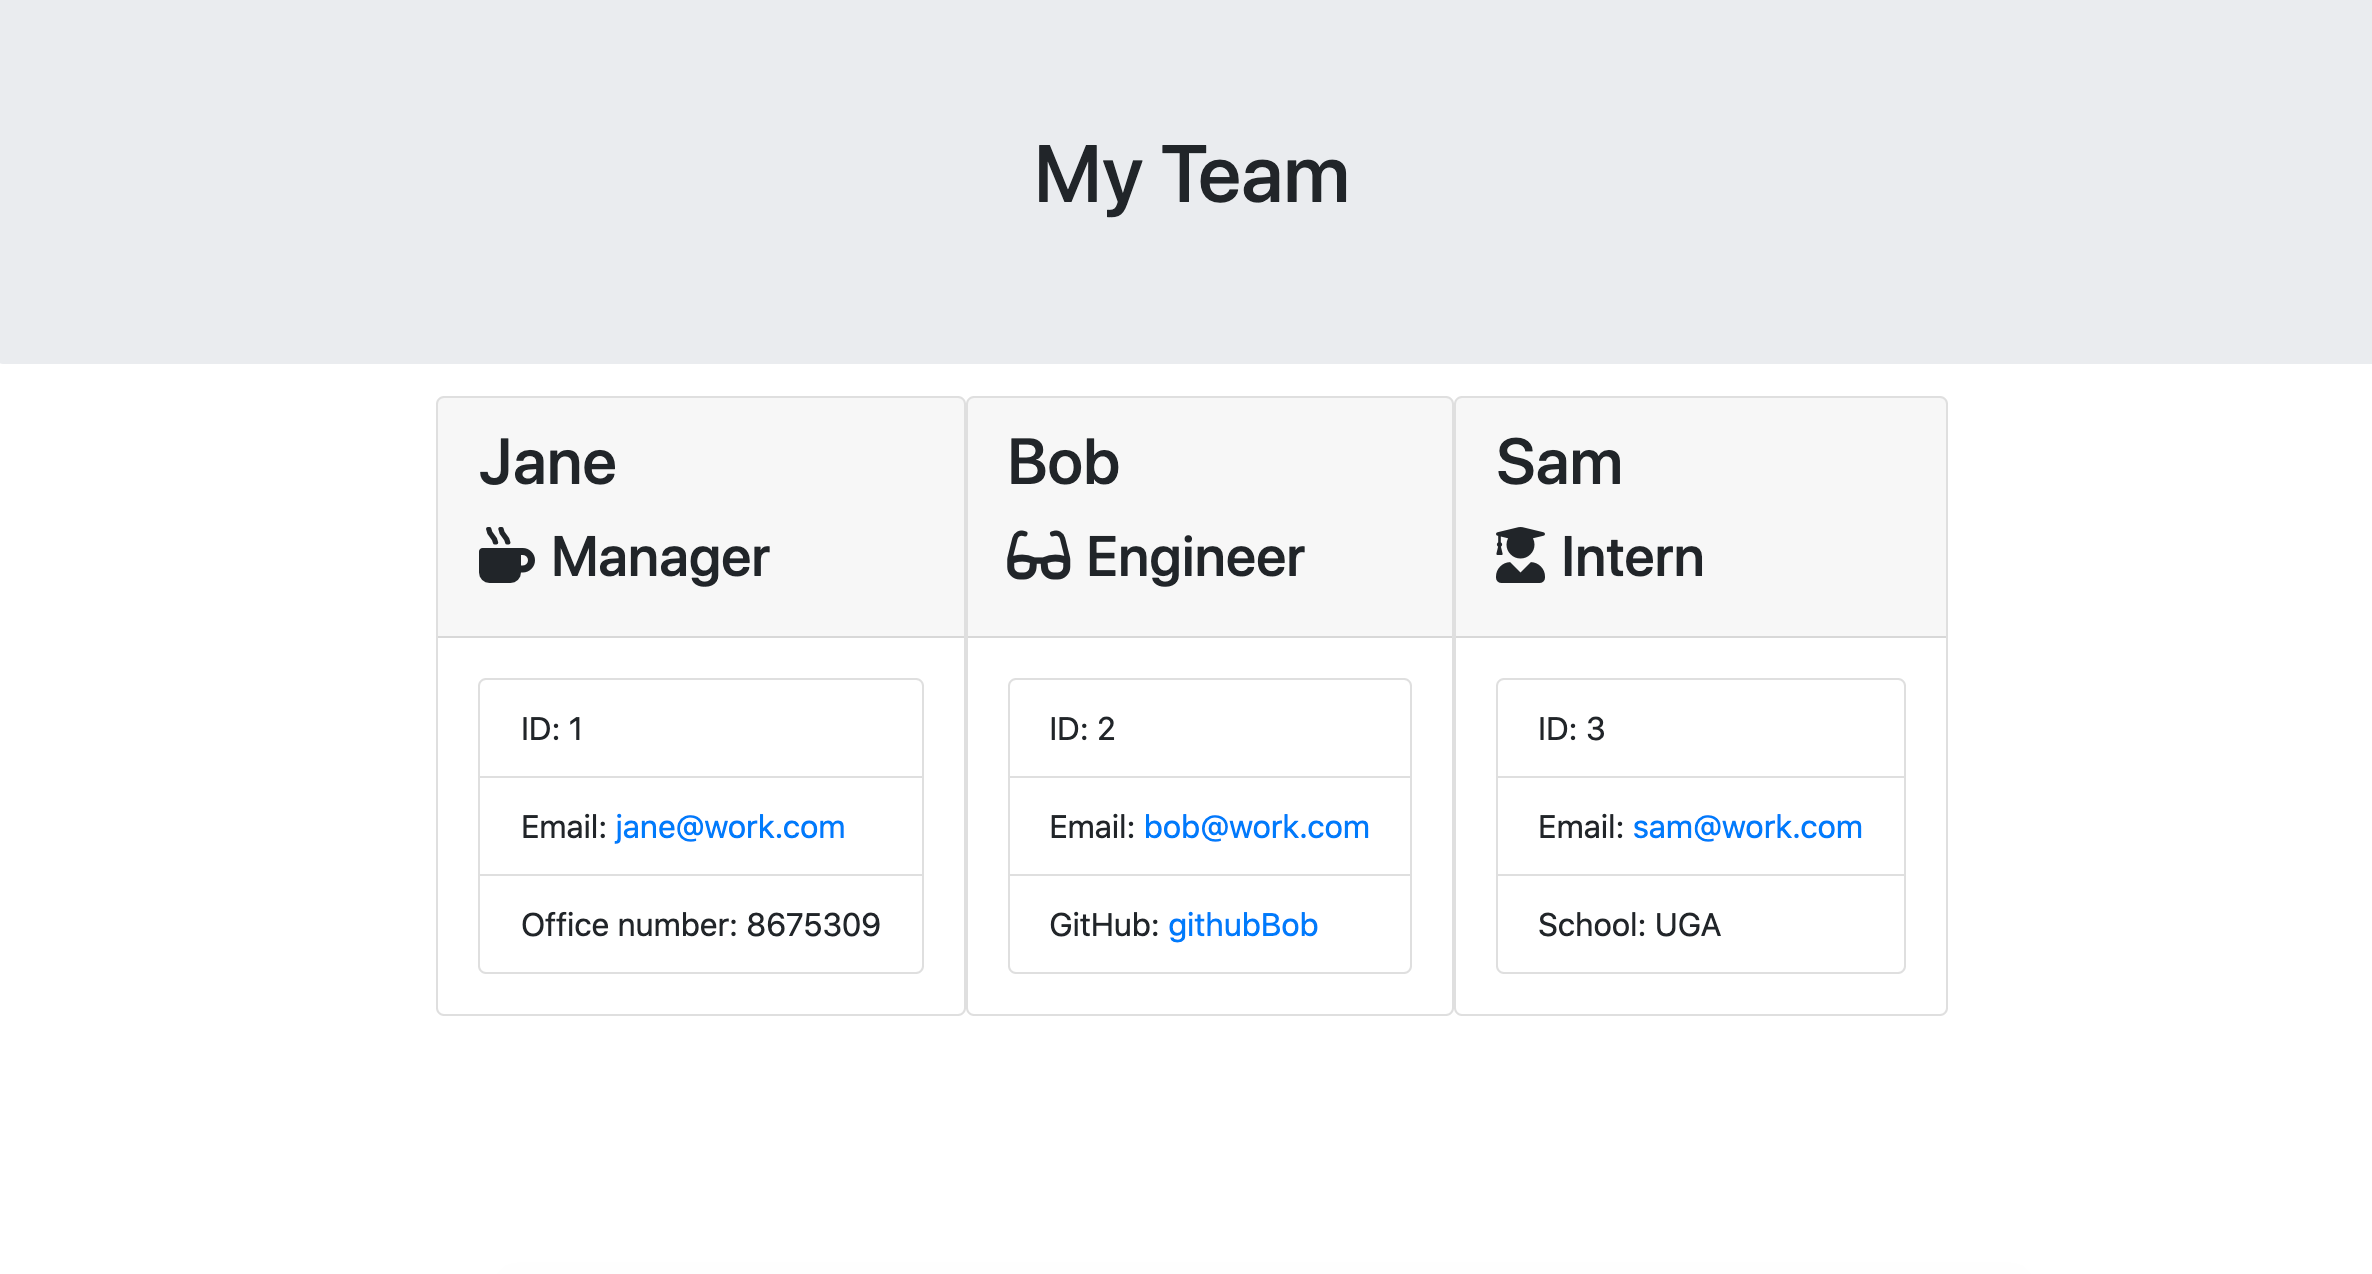
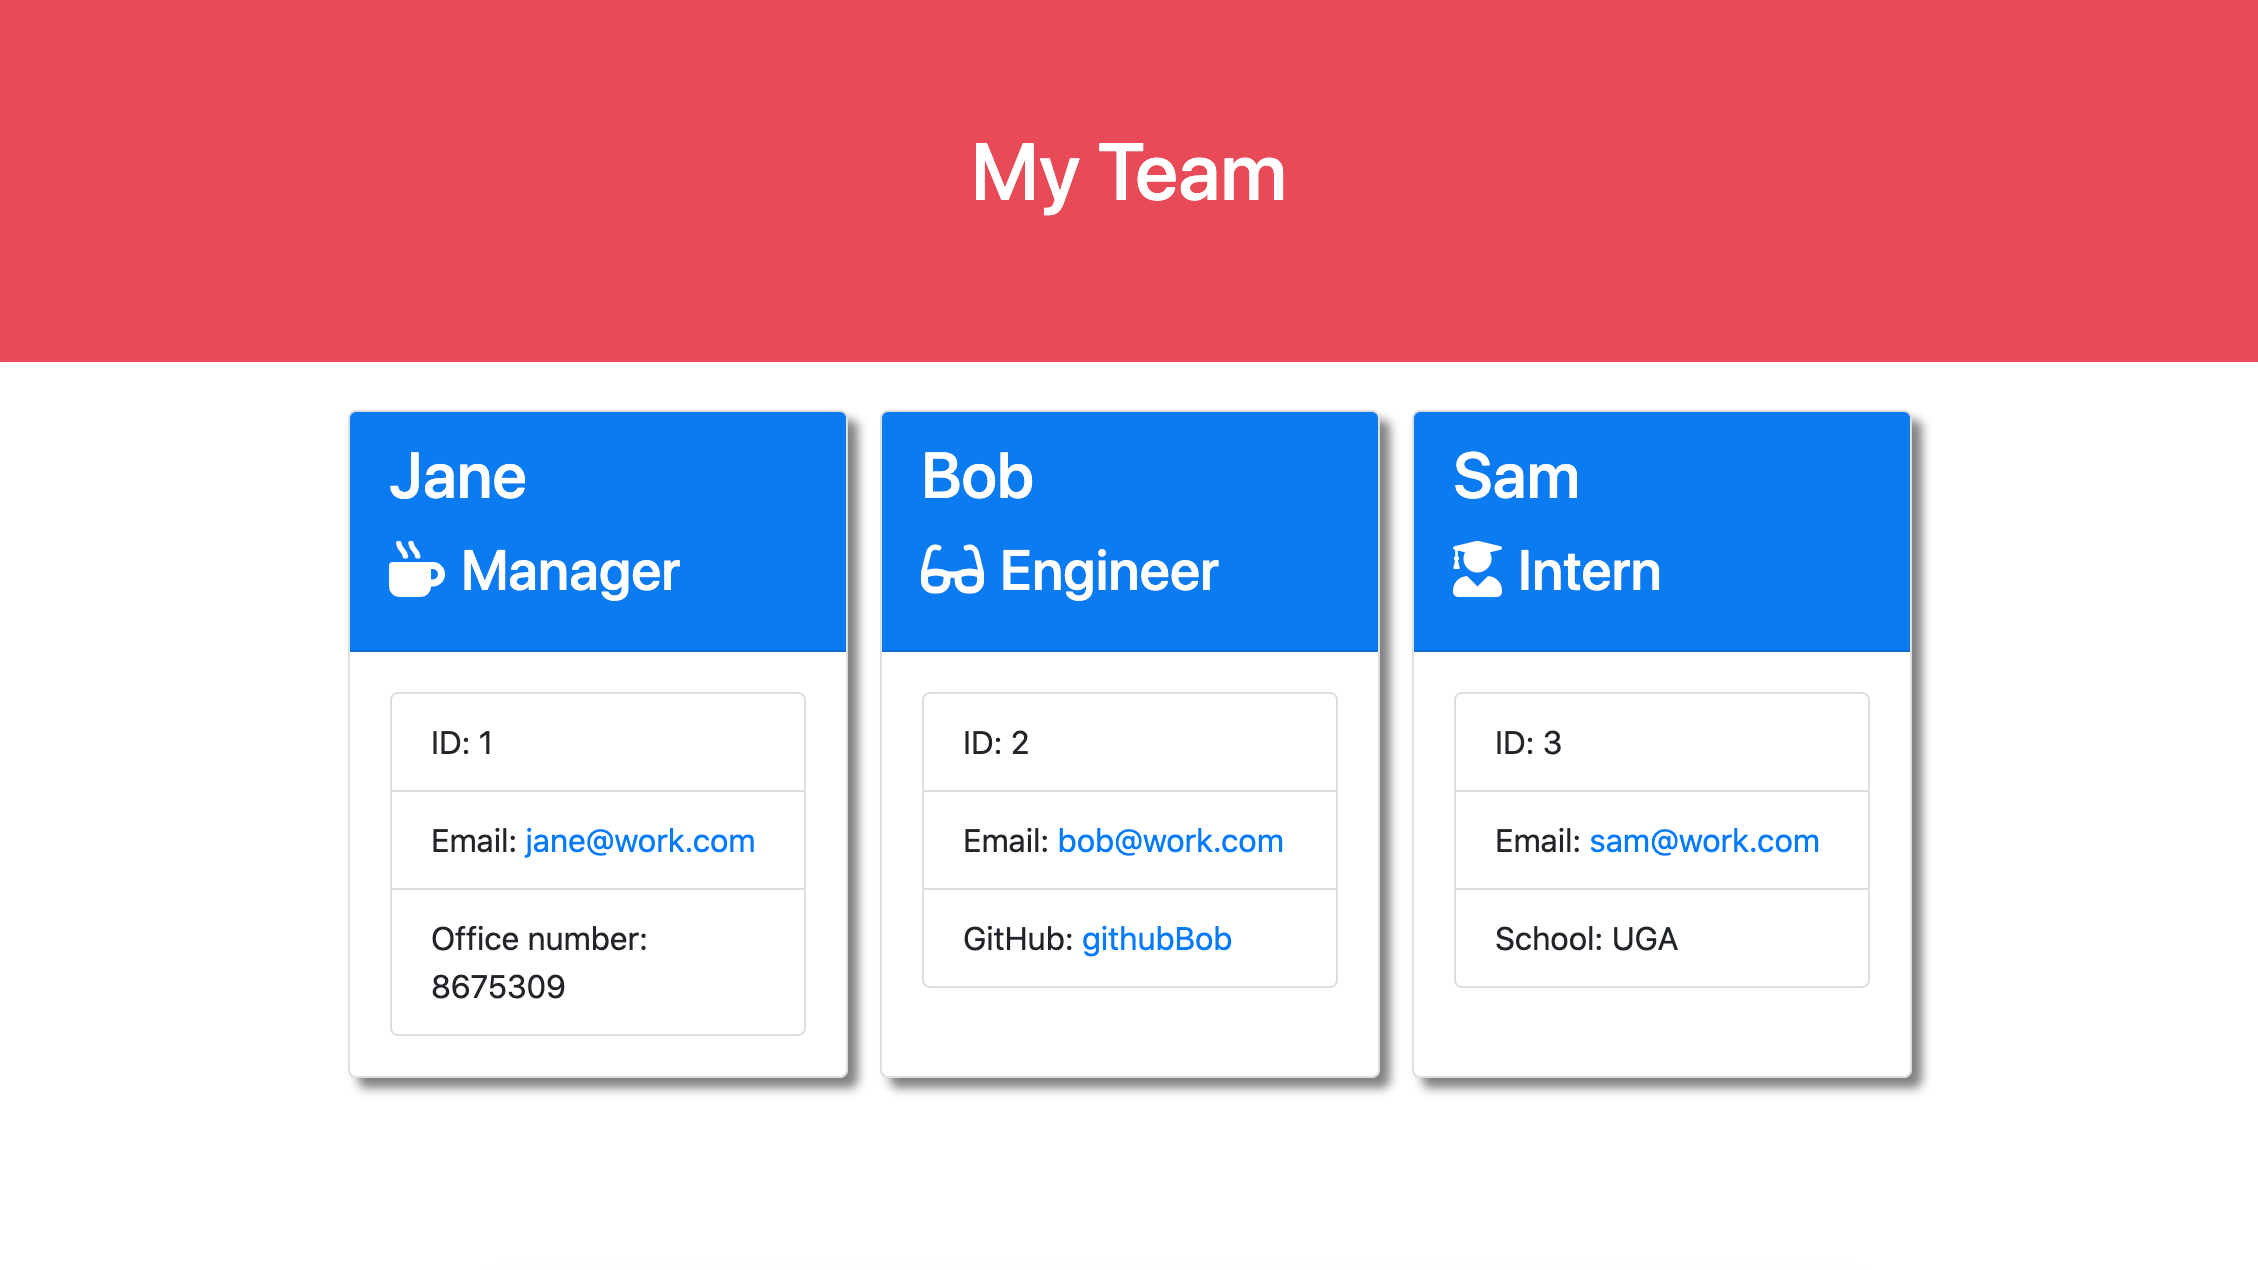
ran test for styling, added new screenshot to README

diff --git a/Develop/output/team.html b/Develop/output/team.html
@@ -25,40 +25,40 @@
             <div class="team-area col-12 d-flex justify-content-center">
                 <div class="card employee-card m-2">
     <div class="card-header">
-        <h2 class="card-title">test</h2>
+        <h2 class="card-title">Jane</h2>
         <h3 class="card-title"><i class="fas fa-mug-hot mr-2"></i>Manager</h3>
     </div>
     <div class="card-body">
         <ul class="list-group">
-            <li class="list-group-item">ID: test</li>
-            <li class="list-group-item">Email: <a href="mailto:test">test</a></li>
-            <li class="list-group-item">Office number: test</li>
+            <li class="list-group-item">ID: 1</li>
+            <li class="list-group-item">Email: <a href="mailto:jane@work.com">jane@work.com</a></li>
+            <li class="list-group-item">Office number: 8675309</li>
         </ul>
     </div>
 </div>
 <div class="card employee-card m-2">
     <div class="card-header">
-        <h2 class="card-title">test</h2>
+        <h2 class="card-title">Bob</h2>
         <h3 class="card-title"><i class="fas fa-glasses mr-2"></i>Engineer</h3>
     </div>
     <div class="card-body">
         <ul class="list-group">
-            <li class="list-group-item">ID: test</li>
-            <li class="list-group-item">Email: <a href="mailto:test">test</a></li>
-            <li class="list-group-item">GitHub: <a href="https://github.com/test" target="_blank" rel="noopener noreferrer">test</a></li>
+            <li class="list-group-item">ID: 2</li>
+            <li class="list-group-item">Email: <a href="mailto:bob@work.com">bob@work.com</a></li>
+            <li class="list-group-item">GitHub: <a href="https://github.com/githubBob" target="_blank" rel="noopener noreferrer">githubBob</a></li>
         </ul>
     </div>
 </div>
 <div class="card employee-card m-2">
     <div class="card-header">
-        <h2 class="card-title">test</h2>
+        <h2 class="card-title">Sam</h2>
         <h3 class="card-title"><i class="fas fa-user-graduate mr-2"></i>Intern</h3>
     </div>
     <div class="card-body">
         <ul class="list-group">
-            <li class="list-group-item">ID: test</li>
-            <li class="list-group-item">Email: <a href="mailto:test">test</a></li>
-            <li class="list-group-item">School: test</li>
+            <li class="list-group-item">ID: 3</li>
+            <li class="list-group-item">Email: <a href="mailto:sam@work.com">sam@work.com</a></li>
+            <li class="list-group-item">School: UGA</li>
         </ul>
     </div>
 </div>
